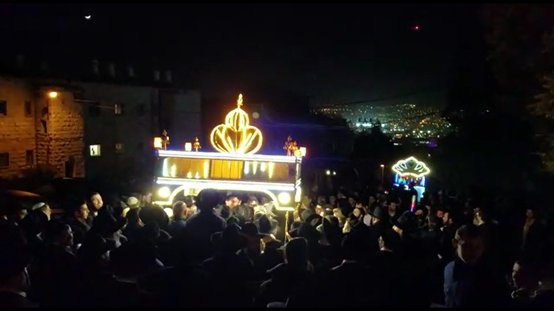
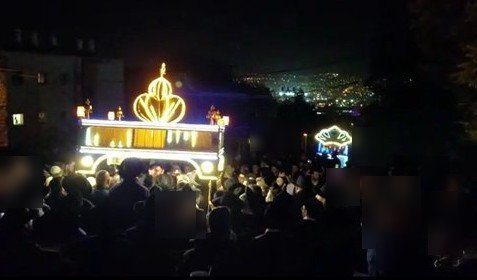
Add new chuppah photo, reshuffle images, brighten colors, simplify contact section
- Added the newly-provided crowd/crown photo as the "חופה מרהיבה" section's
  big image: darkened/vignetted the tree-lined top corners so the canopy
  glows against near-black, and blurred faces in the crowd.
- Freed-up showcase-crown.jpg (previously in that section) now used as the
  hero background instead of the close-up van shot, which read as an
  unrecognizable abstract blur at low opacity — raised its opacity too.
- The van/vehicle photo in the 3-photo strip now displays in full via
  background-size:contain instead of being cropped by cover.
- Re-cropped showcase-crowd.jpg to cut the parked car and black sky
  border, and blurred its crowd's faces (this file predated the earlier
  face-blur pass).
- Brighter, more vivid gold/yellow tokens; larger type for the hero eyelash
  and trust lines.
- Removed the redundant contact-info column (phone/email/whatsapp already
  repeated in the hero, footer, and mobile bar) — contact section is now
  just the form.

Claude-Session: https://claude.ai/code/session_01D8eu7GUbxEioHt2D6r7AZ8

diff --git a/zvulun-torah-events/style.css b/zvulun-torah-events/style.css
@@ -2,8 +2,8 @@
   --navy-deep: #0a0824;
   --navy: #14113f;
   --navy-light: #201a5e;
-  --gold: #d4af37;
-  --gold-light: #f3d67a;
+  --gold: #f0b90b;
+  --gold-light: #ffd60a;
   --white: #f8f7f4;
   --muted: #b9b6d6;
   --radius: 16px;
@@ -131,14 +131,14 @@ a { color: inherit; }
 .hero-bg {
   position: absolute; inset: 0;
   background-size: cover; background-position: center;
-  opacity: .28; mix-blend-mode: screen;
+  opacity: .55; mix-blend-mode: screen;
 }
 .hero-overlay {
   position: absolute; inset: 0;
-  background: linear-gradient(180deg, rgba(10,8,36,0) 0%, rgba(10,8,36,.9) 100%);
+  background: linear-gradient(180deg, rgba(10,8,36,.15) 0%, rgba(10,8,36,.92) 100%);
 }
 .hero-content { position: relative; z-index: 2; padding-top: 60px; padding-bottom: 60px; text-align: center; margin: 0 auto; }
-.eyelash { color: var(--gold-light); font-weight: 700; letter-spacing: .5px; margin-bottom: 14px; }
+.eyelash { color: var(--gold-light); font-weight: 700; letter-spacing: .5px; margin-bottom: 14px; font-size: 18px; }
 .hero h1 {
   font-size: clamp(34px, 6vw, 62px); margin: 0 0 20px; font-weight: 800; line-height: 1.15;
   color: var(--white);
@@ -148,7 +148,7 @@ a { color: inherit; }
   max-width: 640px; margin: 0 auto 32px; font-size: 18px; color: var(--muted);
 }
 .hero-actions { display: flex; gap: 16px; justify-content: center; flex-wrap: wrap; margin-bottom: 26px; }
-.trust-line { color: var(--gold-light); font-size: 14px; }
+.trust-line { color: var(--gold-light); font-size: 17px; font-weight: 600; }
 
 /* Premium entrance sequence, played once when the page finishes loading */
 @keyframes heroRise { from { opacity: 0; transform: translateY(16px); } to { opacity: 1; transform: none; } }
@@ -232,17 +232,12 @@ body.ready .hero-content > h1 { animation: heroRise .7s ease .2s both, titleGlow
 .gallery-item:hover, .gallery-item:focus-visible {
   transform: scale(1.07); z-index: 5; box-shadow: var(--shadow); border-color: rgba(212,175,55,.4);
 }
+.gallery-item-contain { background-size: contain; background-repeat: no-repeat; }
 
 /* Contact */
 .contact-section { background: linear-gradient(180deg, var(--navy-deep), var(--navy)); }
-.contact-grid { display: grid; grid-template-columns: 1fr 1fr; gap: 50px; align-items: start; }
-.contact-info h2, .contact-info .section-lead, .contact-info .kicker { text-align: right; margin-left: 0; }
-.contact-line {
-  display: flex; align-items: center; gap: 10px; text-decoration: none;
-  font-size: 17px; font-weight: 700; margin-bottom: 16px; color: var(--white);
-}
-.contact-line .icon { width: 20px; height: 20px; color: var(--gold-light); }
 .contact-form {
+  max-width: 560px; margin: 0 auto;
   background: rgba(255,255,255,.04); border: 1px solid rgba(255,255,255,.1);
   border-radius: var(--radius); padding: 30px; display: flex; flex-direction: column; gap: 16px;
 }
@@ -252,7 +247,6 @@ body.ready .hero-content > h1 { animation: heroRise .7s ease .2s both, titleGlow
   border-radius: 8px; padding: 12px 14px; color: var(--white); font-size: 15px; font-family: inherit;
 }
 .contact-form input:focus, .contact-form textarea:focus { outline: 2px solid var(--gold); }
-.form-hint { color: var(--muted); font-size: 12.5px; text-align: center; margin: 0; }
 
 /* Footer */
 .site-footer { background: var(--navy-deep); border-top: 1px solid rgba(255,255,255,.08); padding: 28px 0 90px; }
@@ -277,8 +271,6 @@ body.ready .hero-content > h1 { animation: heroRise .7s ease .2s both, titleGlow
   .main-nav.nav-open { display: flex; }
   .nav-toggle { display: flex; }
   .header-call { display: none; }
-  .contact-grid { grid-template-columns: 1fr; }
-  .contact-info h2, .contact-info .section-lead, .contact-info .kicker { text-align: center; }
   .stats-grid { grid-template-columns: repeat(2, 1fr); }
   .mobile-cta { display: flex; }
   .site-footer { padding-bottom: 100px; }

diff --git a/zvulun-torah-events/index.html b/zvulun-torah-events/index.html
@@ -83,7 +83,7 @@
 
   <section class="hero" id="hero">
     <div class="stars" aria-hidden="true"></div>
-    <div class="hero-bg" style="background-image:url('images/hero-bg.jpg')"></div>
+    <div class="hero-bg" style="background-image:url('images/showcase-crown.jpg')"></div>
     <div class="hero-overlay"></div>
     <div class="wrap hero-content">
       <p class="eyelash">ליווי ספר התורה מהבית עד לבית הכנסת בשירה ובריקודים</p>
@@ -134,7 +134,7 @@
     <div class="wrap">
       <h2 class="reveal">חופה מרהיבה לבחירתך!!</h2>
       <p class="section-lead reveal">חופת גלגלים מפוארת - מוארת בכתרים ומנורות לדים זוהרים</p>
-      <div class="chuppah-photo reveal" style="background-image:url('images/showcase-crown.jpg')"></div>
+      <div class="chuppah-photo reveal" style="background-image:url('images/chuppah-large.jpg')"></div>
     </div>
   </section>
 
@@ -159,20 +159,15 @@
       <h2 class="reveal">רגע מהתהלוכה</h2>
       <div class="gallery-grid">
         <div class="gallery-item reveal" style="background-image:url('images/showcase-crown.jpg')"></div>
-        <div class="gallery-item reveal" style="background-image:url('images/hero-bg.jpg')"></div>
+        <div class="gallery-item gallery-item-contain reveal" style="background-image:url('images/hero-bg.jpg')"></div>
         <div class="gallery-item reveal" style="background-image:url('images/showcase-crowd.jpg')"></div>
       </div>
     </div>
   </section>
 
   <section class="section contact-section" id="contact">
-    <div class="wrap contact-grid">
-      <div class="contact-info reveal">
-        <h2 class="reveal">יצירת קשר</h2>
-        <a class="contact-line" href="tel:0506927171"><svg class="icon" aria-hidden="true"><use href="#icon-phone"/></svg> 050-6927171</a>
-        <a class="contact-line" href="mailto:zvulun8@netvision.net.il"><svg class="icon" aria-hidden="true"><use href="#icon-mail"/></svg> zvulun8@netvision.net.il</a>
-        <a class="contact-line" href="https://wa.me/972506927171" target="_blank" rel="noopener"><svg class="icon" aria-hidden="true"><use href="#icon-chat"/></svg> שליחת הודעה בוואטסאפ</a>
-      </div>
+    <div class="wrap">
+      <h2 class="reveal">יצירת קשר</h2>
       <form class="contact-form reveal" id="contactForm">
         <label>שם מלא
           <input type="text" name="name" required autocomplete="name">
